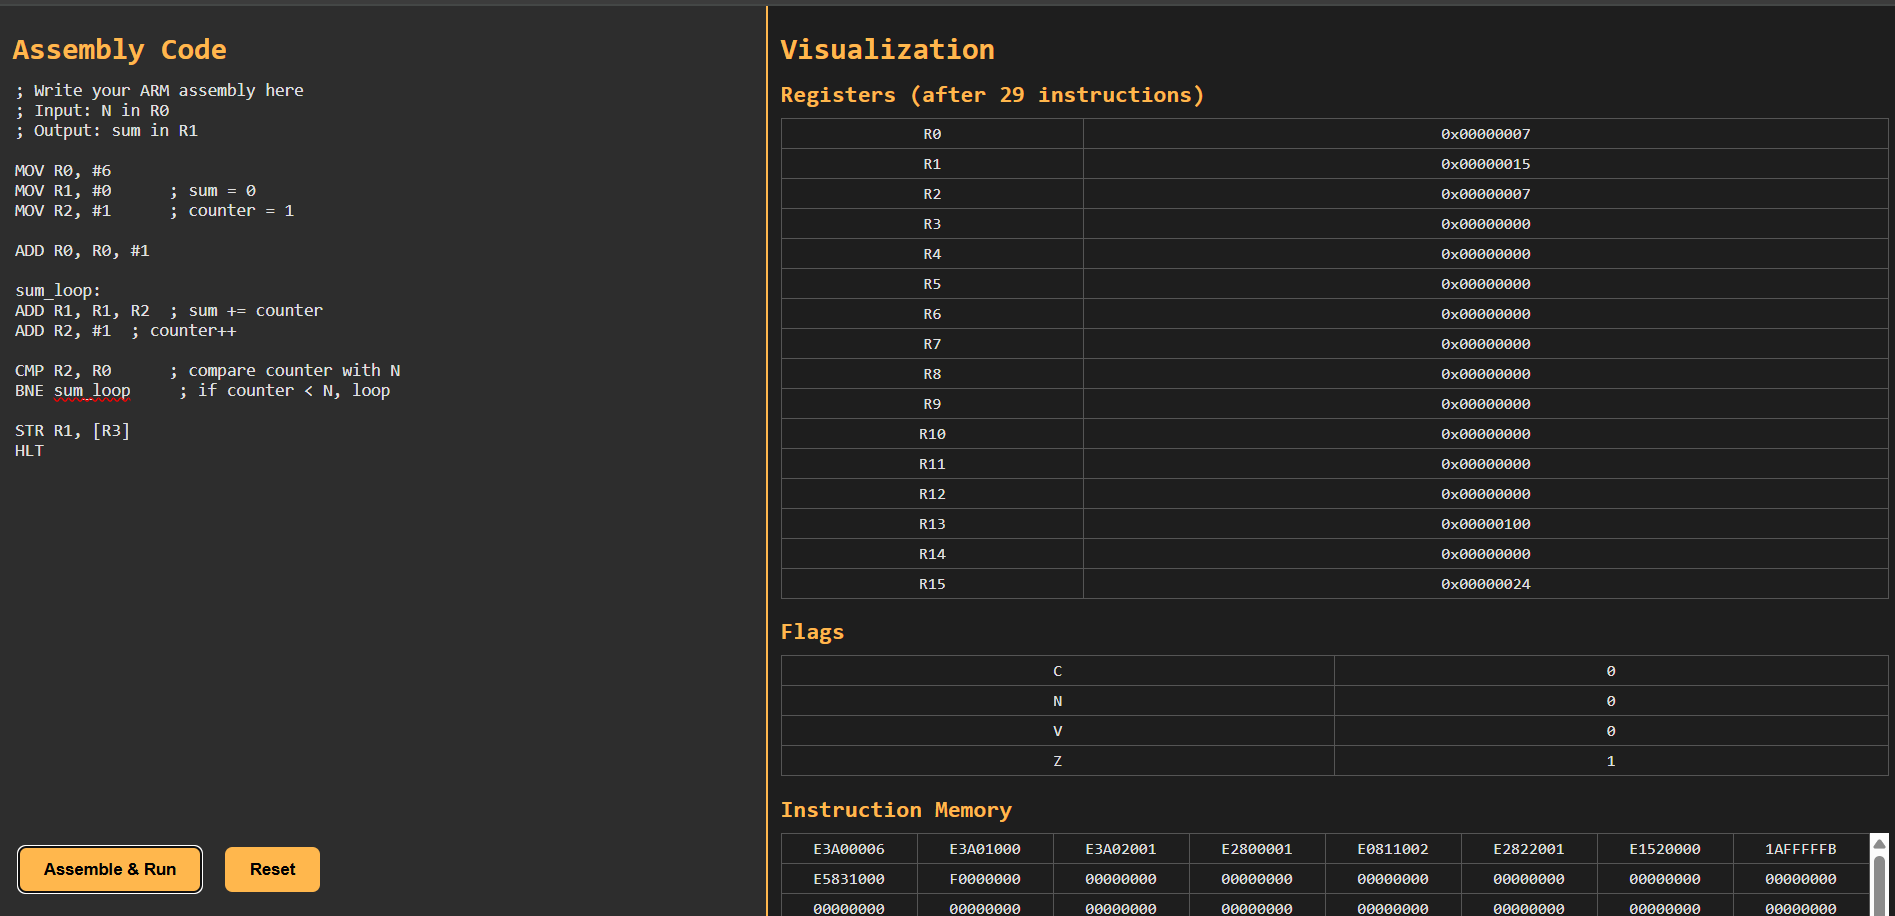
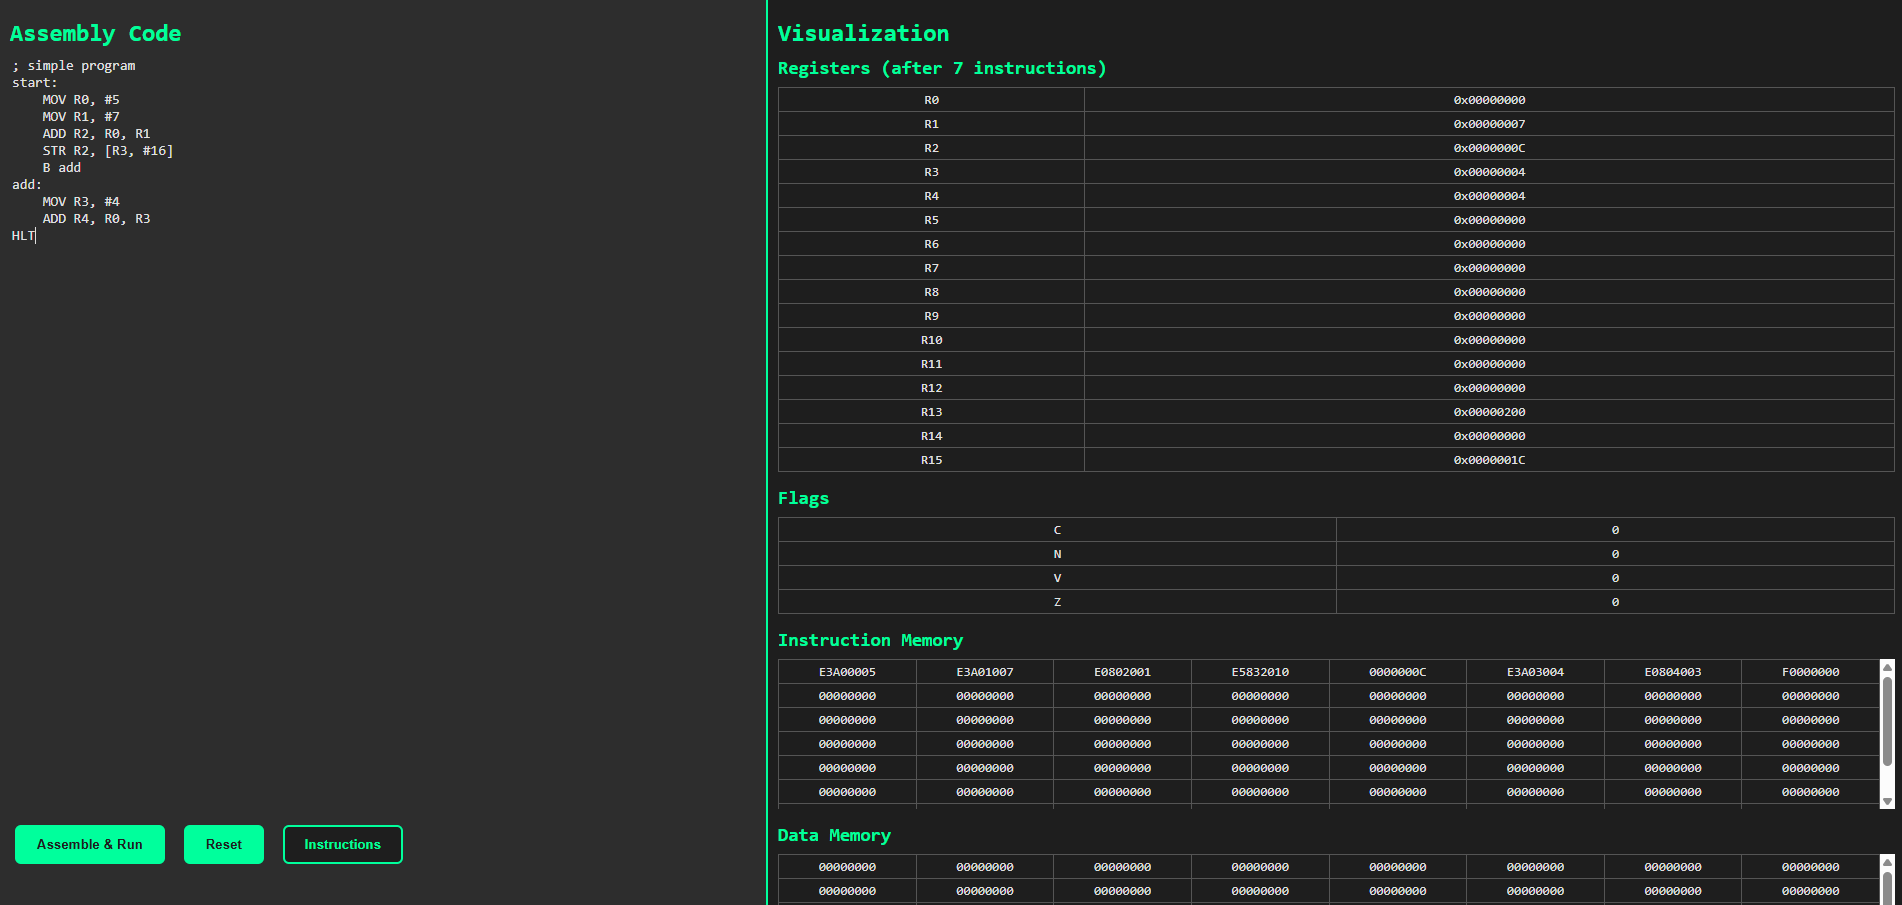
readme update + docu fix

diff --git a/web/docs.html b/web/docs.html
@@ -159,7 +159,7 @@
       <p>
         <a
           style="color: white"
-          href="/Documentation_ARM_Assembly_Simulator.pdf"
+          href="../[Documentation] ARM_Assembly_Simulator.pdf"
           target="_blank"
         >
           Open Full PDF Documentation